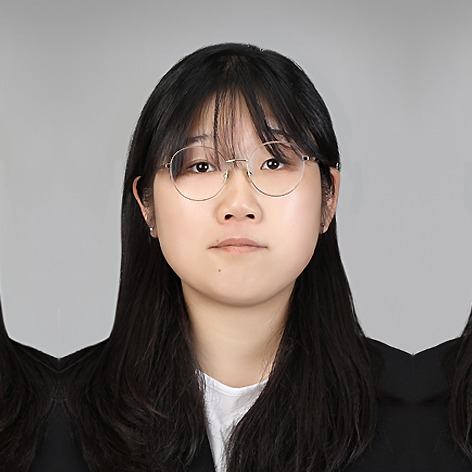
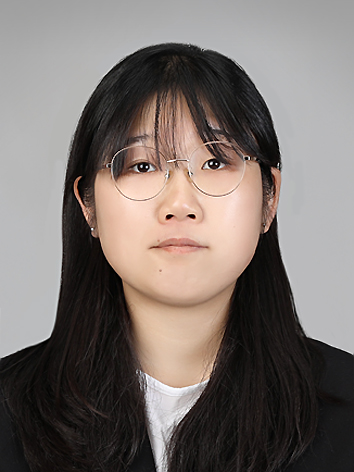
프로필 사진을 원본으로 되돌리고, 위치·크기를 직접 조절하는 창 추가(MY 화면)

diff --git a/src/components/PhotoAdjust.tsx b/src/components/PhotoAdjust.tsx
@@ -1,0 +1,92 @@
+"use client";
+
+import { useState } from "react";
+import Avatar from "./Avatar";
+import Modal from "./Modal";
+import { usePortfolio } from "./PortfolioProvider";
+
+/** 프로필 사진의 보이는 위치(좌우·상하)와 크기를 슬라이더로 직접 조절하는 창 */
+export default function PhotoAdjust({ onClose }: { onClose: () => void }) {
+  const { profile, updateProfile, toast } = usePortfolio();
+  const [x, setX] = useState(profile.photoX);
+  const [y, setY] = useState(profile.photoY);
+  const [zoom, setZoom] = useState(profile.photoZoom);
+
+  const snippet = `photoX: ${x},\nphotoY: ${y},\nphotoZoom: ${zoom},`;
+
+  function save() {
+    updateProfile({ photoX: x, photoY: y, photoZoom: zoom });
+    toast("사진 위치를 저장했어요");
+    onClose();
+  }
+
+  function reset() {
+    setX(50);
+    setY(50);
+    setZoom(100);
+  }
+
+  async function copy() {
+    try {
+      await navigator.clipboard.writeText(snippet);
+      toast("값을 복사했어요");
+    } catch {
+      toast("복사하지 못했어요. 아래 값을 직접 적어 주세요");
+    }
+  }
+
+  return (
+    <Modal
+      title="프로필 사진 위치 조절"
+      onClose={onClose}
+      footer={
+        <>
+          <button type="button" className="btn" onClick={reset}>
+            처음 값으로
+          </button>
+          <button type="button" className="btn" onClick={onClose}>
+            취소
+          </button>
+          <button type="button" className="btn btn-primary" onClick={save}>
+            저장
+          </button>
+        </>
+      }
+    >
+      <div className="photo-adjust">
+        <div className="photo-adjust-preview">
+          <Avatar photo={profile.photo} name={profile.name} size={200} x={x} y={y} zoom={zoom} />
+        </div>
+
+        <div className="photo-adjust-controls">
+          <label className="field">
+            <span className="field-label">좌우 위치 ({x})</span>
+            <input type="range" min={0} max={100} value={x} onChange={(e) => setX(Number(e.target.value))} />
+          </label>
+          <label className="field">
+            <span className="field-label">상하 위치 ({y})</span>
+            <input type="range" min={0} max={100} value={y} onChange={(e) => setY(Number(e.target.value))} />
+          </label>
+          <label className="field">
+            <span className="field-label">크기 ({zoom}%)</span>
+            <input type="range" min={70} max={250} value={zoom} onChange={(e) => setZoom(Number(e.target.value))} />
+          </label>
+          <p className="muted photo-adjust-note">
+            크기를 100% 아래로 줄이면 사진 둘레에 회색 배경이 보여요. 사진은 원본 그대로이고, 보이는 부분만 바뀌어요.
+          </p>
+        </div>
+
+        <div className="photo-adjust-deploy">
+          <p className="field-label">배포 사이트에도 똑같이 보이게 하려면</p>
+          <p className="muted">
+            <code>src/data/profile.ts</code> 파일에서 같은 이름의 값을 아래처럼 바꾸고 올리세요. (이 창은 내 컴퓨터에서만 열려요.)
+          </p>
+          <pre className="photo-adjust-code">{snippet}</pre>
+          <button type="button" className="btn btn-sm" onClick={copy}>
+            값 복사
+          </button>
+        </div>
+      </div>
+    </Modal>
+  );
+}

diff --git a/src/components/MyDashboard.tsx b/src/components/MyDashboard.tsx
@@ -5,6 +5,7 @@ import { useRef, useState, type ChangeEvent, type KeyboardEvent } from "react";
 import Avatar from "./Avatar";
 import ConfirmDialog from "./ConfirmDialog";
 import { CameraIcon, EditIcon, PlusIcon, TrashIcon } from "./Icons";
+import PhotoAdjust from "./PhotoAdjust";
 import ProfileEditor from "./ProfileEditor";
 import ProjectEditor from "./ProjectEditor";
 import { usePortfolio } from "./PortfolioProvider";
@@ -37,6 +38,7 @@ export default function MyDashboard() {
   const [confirm, setConfirm] = useState<ConfirmState>(null);
 
   const photoInput = useRef<HTMLInputElement>(null);
+  const [photoAdjustOpen, setPhotoAdjustOpen] = useState(false);
 
   const skillCount = profile.skills.reduce((sum, g) => sum + g.items.length, 0);
 
@@ -71,7 +73,7 @@ export default function MyDashboard() {
     e.target.value = "";
     if (!file) return;
     try {
-      const photo = await fileToResizedDataUrl(file, { max: 480, square: true, quality: 0.88 });
+      const photo = await fileToResizedDataUrl(file, { max: 720, quality: 0.9 });
       updateProfile({ photo });
       toast("프로필 사진을 바꿨어요");
     } catch (err) {
@@ -200,7 +202,14 @@ export default function MyDashboard() {
       {/* ── 프로필 카드 ── */}
       <section className="profile-card" aria-labelledby="my-profile-title">
         <div className="avatar-wrap">
-          <Avatar photo={profile.photo} name={profile.name} size="clamp(112px, 24vw, 168px)" />
+          <Avatar
+            photo={profile.photo}
+            name={profile.name}
+            size="clamp(112px, 24vw, 168px)"
+            x={profile.photoX}
+            y={profile.photoY}
+            zoom={profile.photoZoom}
+          />
           <button
             type="button"
             className="avatar-plus"
@@ -273,6 +282,11 @@ export default function MyDashboard() {
               <CameraIcon size={15} /> {profile.photo ? "사진 변경" : "사진 추가"}
             </button>
             {profile.photo && (
+              <button type="button" className="btn" onClick={() => setPhotoAdjustOpen(true)}>
+                사진 위치 조절
+              </button>
+            )}
+            {profile.photo && (
               <button type="button" className="btn btn-danger" onClick={askDeletePhoto}>
                 <TrashIcon size={14} /> DEL
               </button>
@@ -297,6 +311,7 @@ export default function MyDashboard() {
       </dl>
 
       {profileOpen && <ProfileEditor onClose={() => setProfileOpen(false)} />}
+      {photoAdjustOpen && <PhotoAdjust onClose={() => setPhotoAdjustOpen(false)} />}
       {projectEditor && (
         <ProjectEditor slug={projectEditor.slug} onClose={() => setProjectEditor(null)} />
       )}

diff --git a/src/components/Avatar.tsx b/src/components/Avatar.tsx
@@ -6,16 +6,28 @@ type Props = {
   /** 숫자(px) 또는 CSS 길이값 (예: "clamp(140px, 22vw, 280px)") */
   size?: number | string;
   className?: string;
+  /** 사진에서 보일 중심 위치(0~100)와 크기(%) */
+  x?: number;
+  y?: number;
+  zoom?: number;
 };
 
-export default function Avatar({ photo, name, size = 40, className = "" }: Props) {
+export default function Avatar({ photo, name, size = 40, className = "", x = 50, y = 50, zoom = 100 }: Props) {
   const style = { "--size": typeof size === "number" ? `${size}px` : size } as CSSProperties;
 
   return (
-    <span className={`avatar ${className}`.trim()} style={style}>
+    <span className={`avatar ${photo ? "has-photo " : ""}${className}`.trim()} style={style}>
       {photo ? (
         // eslint-disable-next-line @next/next/no-img-element
-        <img src={photo} alt={`${name} 프로필 사진`} />
+        <img
+          src={photo}
+          alt={`${name} 프로필 사진`}
+          style={{
+            objectPosition: `${x}% ${y}%`,
+            transformOrigin: `${x}% ${y}%`,
+            transform: zoom === 100 ? undefined : `scale(${zoom / 100})`,
+          }}
+        />
       ) : (
         // 사진이 없으면 글자 없이 기본 사람 모양만 보여줍니다.
         <svg className="avatar-silhouette" viewBox="0 0 24 24" fill="currentColor" aria-hidden="true">

diff --git a/src/data/profile.ts b/src/data/profile.ts
@@ -20,6 +20,10 @@ export type Profile = {
   github: string;
   /** 프로필 사진 (data URL). 빈 문자열이면 이니셜 아바타가 표시됩니다. */
   photo: string;
+  /** 사진에서 보일 중심 위치(0~100, 가운데가 50)와 크기(%, 100이 기본) */
+  photoX: number;
+  photoY: number;
+  photoZoom: number;
   about: string[];
   facts: Fact[];
   skills: SkillGroup[];
@@ -45,6 +49,10 @@ export const defaultProfile: Profile = {
   // 비워 두면 이름 첫 글자 아바타가 나옵니다.
   // 사진을 쓰려면 public/profile.jpg 파일을 넣고 "/profile.jpg"로 바꾸세요.
   photo: "/profile.jpg",
+  // 사진 위치·크기 조절: 내 컴퓨터의 MY 화면 → "사진 위치 조절"에서 맞춘 뒤 나온 값을 여기에 적으세요.
+  photoX: 50, // 0(왼쪽) ~ 100(오른쪽)
+  photoY: 50, // 0(위) ~ 100(아래)
+  photoZoom: 100, // 70 ~ 250 (%)
 
   about: [
     "정보통신공학을 전공하고, Next.js·TypeScript로 사용자가 마주하는 화면을 만듭니다. PHP·MySQL 기반의 서버 코드와 Firebase까지 다루며 프런트와 백엔드 사이를 매끄럽게 구현합니다.",

diff --git a/src/lib/normalize.ts b/src/lib/normalize.ts
@@ -4,6 +4,8 @@ import { siseNongbuShots, type Project } from "@/data/projects";
 type Obj = Record<string, unknown>;
 const asObj = (v: unknown): Obj => (v && typeof v === "object" ? (v as Obj) : {});
 const str = (v: unknown, fallback = ""): string => (typeof v === "string" ? v : fallback);
+const num = (v: unknown, fallback: number, min: number, max: number): number =>
+  typeof v === "number" && Number.isFinite(v) ? Math.min(max, Math.max(min, Math.round(v))) : fallback;
 
 /** 저장된/가져온 프로필 데이터를 안전한 Profile 형태로 맞춥니다. */
 export function normalizeProfile(raw: unknown): Profile {
@@ -45,6 +47,9 @@ export function normalizeProfile(raw: unknown): Profile {
     email: str(r.email, d.email),
     github: str(r.github, d.github),
     photo: str(r.photo, ""),
+    photoX: num(r.photoX, d.photoX, 0, 100),
+    photoY: num(r.photoY, d.photoY, 0, 100),
+    photoZoom: num(r.photoZoom, d.photoZoom, 70, 250),
     about,
     facts,
     skills,

diff --git a/src/app/globals.css b/src/app/globals.css
@@ -2109,3 +2109,49 @@ button.contact-mail {
     grid-template-columns: minmax(0, 1fr);
   }
 }
+
+/* ── 프로필 사진 위치 조절 ───────────── */
+.avatar.has-photo {
+  background: #bdbdc0;
+}
+.avatar.has-photo img {
+  will-change: transform;
+}
+.photo-adjust {
+  display: grid;
+  gap: 20px;
+}
+.photo-adjust-preview {
+  display: grid;
+  place-items: center;
+  padding: 8px 0;
+}
+.photo-adjust-controls {
+  display: grid;
+  gap: 14px;
+}
+.photo-adjust-controls input[type="range"] {
+  width: 100%;
+}
+.photo-adjust-note {
+  margin: 0;
+  font-size: 0.8125rem;
+}
+.photo-adjust-deploy {
+  padding-top: 14px;
+  border-top: 1px solid var(--line);
+  display: grid;
+  gap: 8px;
+  justify-items: start;
+}
+.photo-adjust-deploy p {
+  margin: 0;
+}
+.photo-adjust-code {
+  margin: 0;
+  padding: 10px 14px;
+  border-radius: 8px;
+  background: var(--surface);
+  font-size: 0.8125rem;
+  line-height: 1.6;
+}

diff --git a/src/components/Hero.tsx b/src/components/Hero.tsx
@@ -42,7 +42,14 @@ export default function Hero() {
 
         <div className="hero-photo reveal reveal-3">
           <span className="fade-swap" data-pending={!ready || undefined}>
-            <Avatar photo={profile.photo} name={profile.name} size="clamp(120px, 20vw, 240px)" />
+            <Avatar
+              photo={profile.photo}
+              name={profile.name}
+              size="clamp(120px, 20vw, 240px)"
+              x={profile.photoX}
+              y={profile.photoY}
+              zoom={profile.photoZoom}
+            />
           </span>
           {ready && canEdit && !profile.photo && (
             <Link href="/my" className="hero-photo-hint">

diff --git a/src/components/Header.tsx b/src/components/Header.tsx
@@ -35,7 +35,7 @@ export default function Header() {
                 aria-current={onMy ? "page" : undefined}
               >
                 <span className="fade-swap" data-pending={!ready || undefined}>
-                  <Avatar photo={profile.photo} name={profile.name} size={28} />
+                  <Avatar photo={profile.photo} name={profile.name} size={28} x={profile.photoX} y={profile.photoY} zoom={profile.photoZoom} />
                 </span>
                 <span className="nav-my-label">MY</span>
               </Link>

diff --git a/README.md b/README.md
@@ -118,3 +118,12 @@ git push -u origin main
 
 이 프로젝트는 서버 기능이 없어서(정적 페이지 + 브라우저 저장소) 위 방법 모두 사용할 수 있습니다.
 요금·한도는 서비스별로 바뀌므로 배포 전에 각 공식 페이지에서 확인하세요.
+
+## 프로필 사진 위치·크기 조절
+
+사진 파일(`public/profile.jpg`)은 그대로 두고, 동그라미 안에 **어느 부분이 어떤 크기로 보일지**만 바꿉니다.
+
+1. 내 컴퓨터에서 `npm run dev` → `/my`(MY 화면) → **사진 위치 조절**을 누릅니다.
+2. 좌우·상하 위치와 크기 슬라이더를 움직여 미리보기를 맞춥니다.
+3. 창 아래에 나오는 값(`photoX`, `photoY`, `photoZoom`)을 `src/data/profile.ts`의 같은 이름 줄에 적고 커밋·푸시하면 배포 사이트에도 같은 모양으로 보입니다.
+4. 크기를 100% 아래로 줄이면 사진의 가장자리와 회색 배경이 보일 수 있어요.
